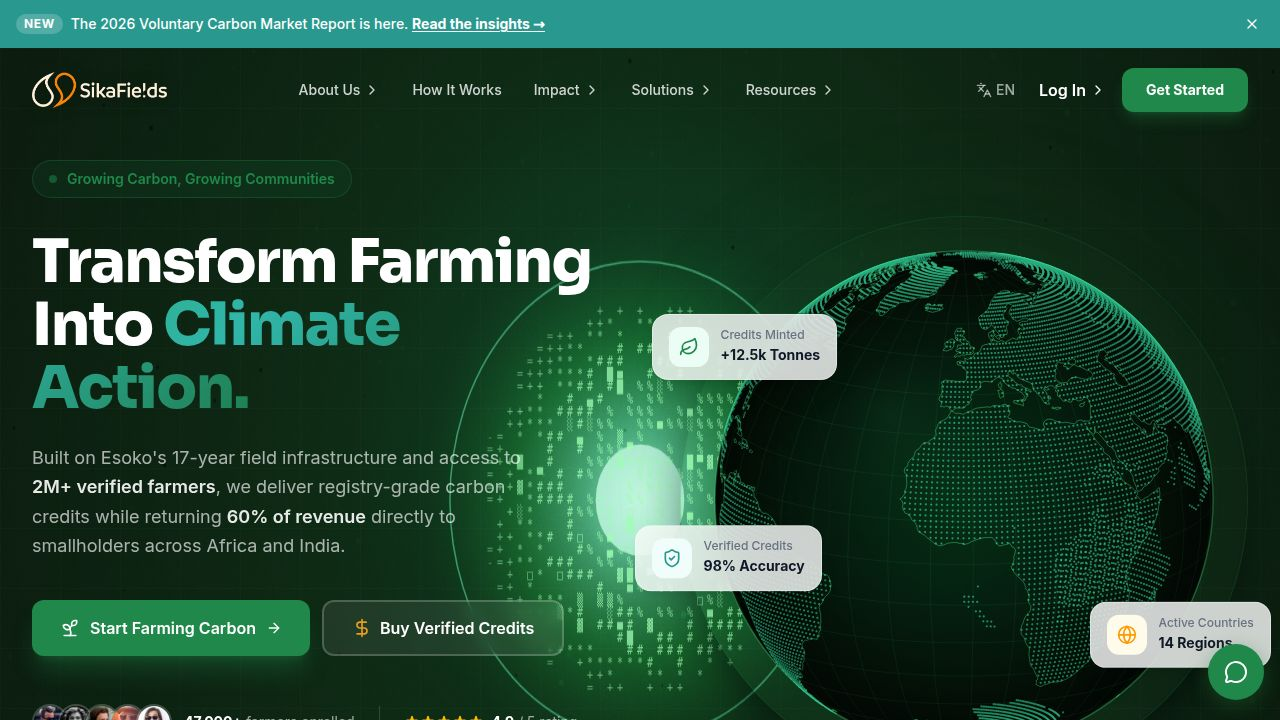
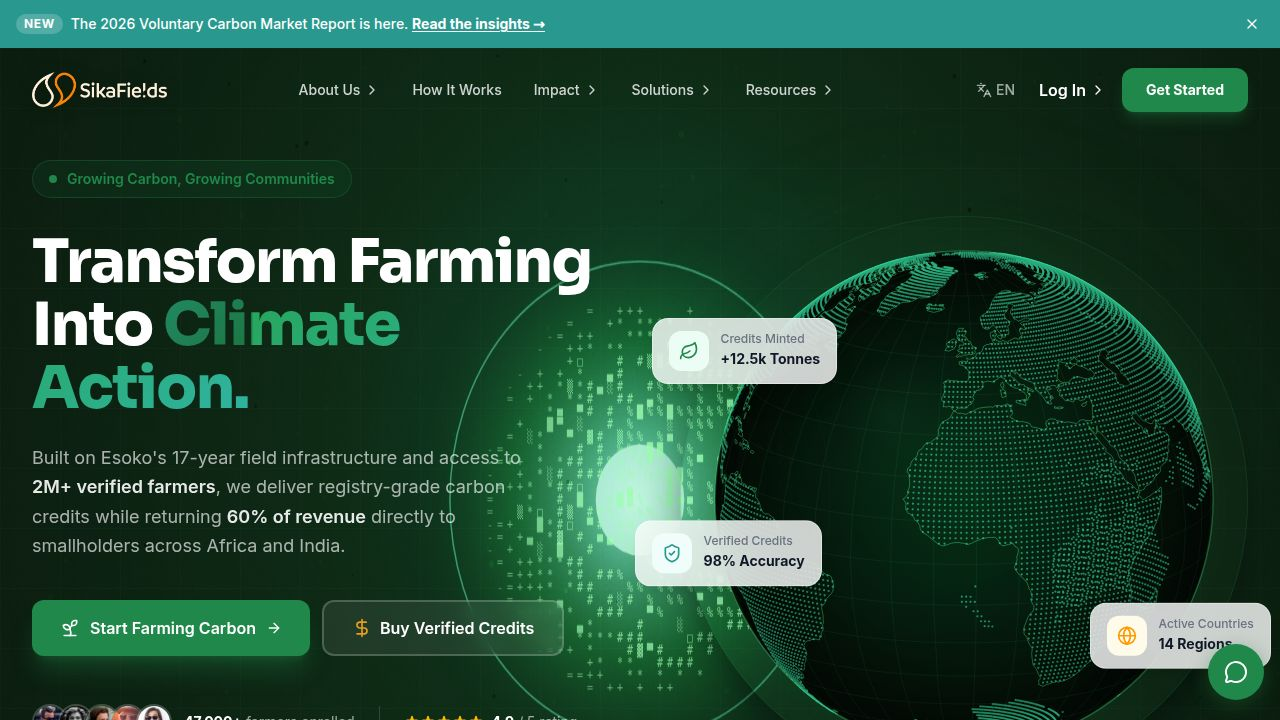
feat(#11): Add 4 real SikaFields field photos to gallery section
Task: Add authentic SikaFields/Esoko photos provided by the user to the gallery.

Images copied to artifacts/sikafields/public/:
- gallery-field-activities.png (from attached Gallery_2026-04-13_145659 collage)
  Category: Community Work — field trainings, radio outreach, community meetings
- gallery-esoko-community.png (from attached Gallry_2026-04-13_145609 collage)
  Category: Community Work — Esoko HQ, radio studio, farmer woman, team photo
- app-verify-ground.jpeg (WhatsApp_Image_2026-04-13_at_16.57.09_(1))
  Category: Technology — mobile app "Verify On Ground" MRV screen
- app-grow-purpose.jpeg (WhatsApp_Image_2026-04-13_at_16.57.09)
  Category: Agroforestry — aerial patchwork smallholder farm view

Updated artifacts/sikafields/src/hooks/useGalleryImages.ts:
- Added fallback-8 through fallback-11 to FALLBACK_IMAGES array
- Gallery now shows 11 images total (up from 7)
- "Community Work" filter now shows 4 images (fallback-3, -4, -8, -9)
- "Agroforestry" filter now shows 2 images (fallback-1, -11)
- "Technology" filter now shows 4 images (fallback-5, -6, -7, -10)
- "Reforestation" filter unchanged (fallback-2)

E2E test: PASSED — all 11 images present in DOM, no broken image URLs,
category filters work correctly for all 4 new images.

diff --git a/artifacts/sikafields/src/hooks/useGalleryImages.ts b/artifacts/sikafields/src/hooks/useGalleryImages.ts
@@ -94,6 +94,50 @@ const FALLBACK_IMAGES: GalleryImage[] = [
     featured: false,
     publishedAt: "2024-09-30T00:00:00Z",
   },
+  {
+    _id: "fallback-8",
+    title: "Community Trainings & Field Activities",
+    category: "Community Work",
+    description: "SikaFields teams meet farmers at community level — conducting field trainings, attending district planning sessions, running radio outreach, and visiting farmers in their own communities.",
+    imageUrl: "/gallery-field-activities.png",
+    alt: "Collage of SikaFields community training events, radio broadcasts, and field visits in Ghana",
+    location: "Western North Region, Ghana",
+    featured: false,
+    publishedAt: "2026-02-10T00:00:00Z",
+  },
+  {
+    _id: "fallback-9",
+    title: "From Esoko HQ to the Field",
+    category: "Community Work",
+    description: "From Esoko's Ghana headquarters to radio studios, training halls, and open-air village meetings — the SikaFields team brings carbon market knowledge directly to farming communities.",
+    imageUrl: "/gallery-esoko-community.png",
+    alt: "Esoko office exterior, radio studio appearances, farmer woman in field, and team photo",
+    location: "Accra & Western Region, Ghana",
+    featured: false,
+    publishedAt: "2026-01-15T00:00:00Z",
+  },
+  {
+    _id: "fallback-10",
+    title: "Verify On Ground — Mobile MRV",
+    category: "Technology",
+    description: "The SikaFields mobile app guides farmers through evidence capture and validation of sustainable farming activities — making Measurement, Reporting & Verification accessible on any smartphone.",
+    imageUrl: "/app-verify-ground.jpeg",
+    alt: "SikaFields mobile app Verify On Ground screen showing field satellite imagery",
+    location: "Platform — Mobile",
+    featured: false,
+    publishedAt: "2025-12-01T00:00:00Z",
+  },
+  {
+    _id: "fallback-11",
+    title: "Grow With Purpose",
+    category: "Agroforestry",
+    description: "Aerial view of patchwork smallholder farms illustrating the diversity of land use across SikaFields' program area — each plot monitored via satellite and enrolled in carbon sequestration.",
+    imageUrl: "/app-grow-purpose.jpeg",
+    alt: "Aerial view of colourful patchwork smallholder farm plots",
+    location: "Platform — Mobile",
+    featured: false,
+    publishedAt: "2025-11-20T00:00:00Z",
+  },
 ];
 
 function docToGalleryImage(doc: Record<string, unknown>): GalleryImage {